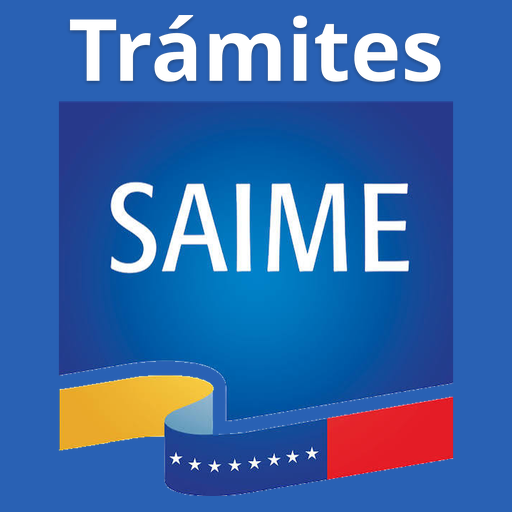
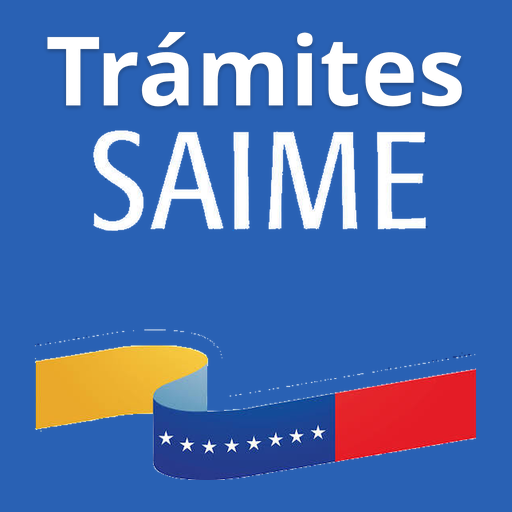
style: el icono ya no lleva la caja azul de atras
Sobre el azul de la pantalla de arranque la caja del logo se veia como un
recuadro oscuro. Ahora el icono queda solo con las letras SAIME y la cinta
tricolor flotando sobre el azul, sin recuadro.

- make-icon.py saca la caja rellenando desde arriba y los costados, antes de
  la cinta, para no comerse el azul de la bandera. Las letras y las estrellas
  quedan intactas (verificado: mismo numero de pixeles blancos, amarillos y
  rojos que el original).
- El filo entre las letras y la caja se recompone sobre el azul nuevo, para
  que no quede halo oscuro alrededor de cada letra.
- Cache del service worker a tramites-ve-v57 y ?v=57.

diff --git a/public/index.html b/public/index.html
@@ -7,8 +7,8 @@
   <meta name="description" content="Cédula, licencia y antecedentes penales en línea. Tus trámites, sin colas ni vueltas." />
   <title>Tramites Venezolanos en Linea | Sin colas ni vueltas</title>
   <link rel="manifest" href="manifest.json" />
-  <link rel="icon" href="favicon-32.png?v=56" sizes="32x32" />
-  <link rel="apple-touch-icon" href="apple-touch-icon.png?v=56" />
+  <link rel="icon" href="favicon-32.png?v=57" sizes="32x32" />
+  <link rel="apple-touch-icon" href="apple-touch-icon.png?v=57" />
   <link rel="stylesheet" href="styles.css" />
 </head>
 <body>
@@ -16,7 +16,7 @@
 <!-- ============================ ACCESO ============================ -->
 <section class="auth" id="authScreen">
   <div class="auth-card">
-    <img class="auth-logo" src="icon-192.png?v=56" srcset="icon-192.png?v=56 1x, icon-512.png?v=56 2x" alt="Trámites Venezolanos en Línea" />
+    <img class="auth-logo" src="icon-192.png?v=57" srcset="icon-192.png?v=57 1x, icon-512.png?v=57 2x" alt="Trámites Venezolanos en Línea" />
     <h1>Trámites Venezolanos en Línea</h1>
     <p class="muted tagline-sub">Cédula, licencia y antecedentes penales. Te acompañamos en todo el trámite.</p>
 
@@ -141,7 +141,7 @@
   <!-- Portada de servicios -->
   <section class="view active" id="homeView">
     <header class="topbar">
-      <img class="brand-logo" src="icon-192.png?v=56" srcset="icon-192.png?v=56 1x, icon-512.png?v=56 2x" alt="Trámites en Línea" />
+      <img class="brand-logo" src="icon-192.png?v=57" srcset="icon-192.png?v=57 1x, icon-512.png?v=57 2x" alt="Trámites en Línea" />
       <div class="brand-block">
         <div class="brand-line">
           <div class="brand">Trámites en Línea</div>
@@ -481,7 +481,7 @@
 
 <!-- Instalar la app -->
 <div class="install hidden" id="installBanner">
-  <img class="install-logo" src="icon-192.png?v=56" srcset="icon-192.png?v=56 1x, icon-512.png?v=56 2x" alt="" />
+  <img class="install-logo" src="icon-192.png?v=57" srcset="icon-192.png?v=57 1x, icon-512.png?v=57 2x" alt="" />
   <div class="install-txt">
     <div class="install-title">Instala la app</div>
     <div class="install-sub">Queda en tu celular, como una app</div>

diff --git a/public/sw.js b/public/sw.js
@@ -1,5 +1,5 @@
 /* Conecta Chat - service worker (instalable + lo mas reciente primero) */
-const CACHE = 'tramites-ve-v56';
+const CACHE = 'tramites-ve-v57';
 const ASSETS = ['./', './index.html', './styles.css', './app.js', './fileviewer.js', './manifest.json', './bg.jpg', './logos/saime.png', './logos/saime-email.png', './galeria/01-identidad-un-clic.jpg', './galeria/02-servicios-saime.jpg', './galeria/03-pasos-tramite.jpg', './logos/intt.png', './logos/justicia.png', './icon-192.png'];
 
 self.addEventListener('install', (e) => {

diff --git a/scripts/make-icon.py b/scripts/make-icon.py
@@ -7,20 +7,24 @@ Por que existe este script
 --------------------------
 El icono sale de una sola imagen de origen, scripts/icono-saime-fuente.jpg: el
 logo SAIME (la caja azul con las letras y la cinta tricolor con las estrellas).
-Esa imagen viene con un fondo blanco en la parte de abajo, el triangulo que se
-ve a los lados de la cinta. El script quita SOLO ese blanco:
+Esa imagen trae dos fondos que no van en el icono:
 
-  1. marca los pixeles casi blancos,
-  2. rellena desde el borde de la imagen (asi solo cae el blanco de afuera y no
-     las letras ni las estrellas, que quedan encerradas por el azul),
-  3. come un par de pixeles del filo para que no quede una linea blanca.
+  1. El blanco de abajo, el triangulo que se ve a los lados de la cinta.
+  2. La caja azul de atras, que sobre el azul de la app se veia como un
+     recuadro oscuro. El icono tiene que quedar solo con las letras SAIME y
+     la cinta, flotando sobre el azul.
 
-Despues arma el bloque "Tramites" + logo y lo pone al medio del cuadro azul.
-El azul es el de la guia, #2961B4, el mismo que va en manifest.json.
+Los dos se sacan igual: se marca la zona por color y se rellena desde un borde
+conocido. Asi solo cae el fondo y quedan intactas las letras y las estrellas,
+que estan encerradas por otros colores.
 
-Los iconos "maskable" son los que Android recorta con su propia forma (circulo,
-gota, cuadrado redondeado). Por eso el bloque se dibuja mas chico: todo lo
-importante tiene que caber en el 80% central o Android lo corta.
+  - El blanco se rellena desde el borde de la imagen.
+  - La caja azul se rellena desde arriba y desde los costados, antes de que
+    empiece la cinta: el azul de la cinta no se toca porque queda aislado por
+    las franjas amarilla y roja.
+
+El filo que queda entre las letras y la caja se recompone sobre el azul nuevo,
+si no quedaria un halo oscuro alrededor de cada letra.
 
 Uso:  python3 scripts/make-icon.py
 Salida: public/icon-1024.png, icon-512.png, icon-192.png,
@@ -31,7 +35,7 @@ import os
 import sys
 from collections import deque
 
-from PIL import Image, ImageDraw, ImageFont, ImageFilter
+from PIL import Image, ImageDraw, ImageFilter, ImageFont
 
 AQUI = os.path.dirname(os.path.abspath(__file__))
 PUBLIC = os.path.join(AQUI, '..', 'public')
@@ -39,78 +43,114 @@ FUENTE = os.path.join(AQUI, 'icono-saime-fuente.jpg')
 LETRA = '/usr/share/fonts/truetype/noto/NotoSans-Bold.ttf'
 
 AZUL = (41, 97, 180)      # #2961B4, el azul de la guia
-TEXTO = 'Tramites'        # se dibuja con acento mas abajo
 TEXTO = 'Tr\u00e1mites'
 
 BLANCO_MIN = 215          # desde que tono se considera blanco de fondo
 LOGO_ANCHO = 2200         # ancho del logo dentro del bloque maestro
 MARGEN_X = 100            # aire a los lados del bloque
-GAP = 110                 # separacion entre el texto y el logo
+GAP = 120                 # separacion entre el texto y el logo
 
 ESCALA_NORMAL = 0.94      # cuanto del cuadro ocupa el bloque
 ESCALA_SEGURA = 0.72      # version maskable
 
 
-def logo_sin_blanco():
-    """Devuelve el logo recortado con el fondo blanco de abajo hecho transparencia."""
-    if not os.path.exists(FUENTE):
-        sys.exit('Falta la imagen de origen: ' + FUENTE)
-    im = Image.open(FUENTE).convert('RGB')
-    px = im.load()
-    w, h = im.size
-
-    def blanco(x, y):
-        r, g, b = px[x, y]
-        return r >= BLANCO_MIN and g >= BLANCO_MIN and b >= BLANCO_MIN
-
-    # Relleno desde el borde: cae el blanco de afuera, no el de las letras.
-    fuera = [[False] * w for _ in range(h)]
+def rellenar(mascara, semillas):
+    """Devuelve los pixeles de la mascara alcanzables desde las semillas."""
+    alto = len(mascara)
+    ancho = len(mascara[0])
+    visto = [[False] * ancho for _ in range(alto)]
     cola = deque()
-
-    def sembrar(x, y):
-        if blanco(x, y) and not fuera[y][x]:
-            fuera[y][x] = True
+    for x, y in semillas:
+        if 0 <= x < ancho and 0 <= y < alto and mascara[y][x] and not visto[y][x]:
+            visto[y][x] = True
             cola.append((x, y))
-
-    for x in range(w):
-        sembrar(x, 0)
-        sembrar(x, h - 1)
-    for y in range(h):
-        sembrar(0, y)
-        sembrar(w - 1, y)
-
     while cola:
         x, y = cola.popleft()
         for dx, dy in ((1, 0), (-1, 0), (0, 1), (0, -1)):
             nx, ny = x + dx, y + dy
-            if 0 <= nx < w and 0 <= ny < h and not fuera[ny][nx] and blanco(nx, ny):
-                fuera[ny][nx] = True
+            if 0 <= nx < ancho and 0 <= ny < alto and mascara[ny][nx] and not visto[ny][nx]:
+                visto[ny][nx] = True
                 cola.append((nx, ny))
+    return visto
 
-    # Un par de pasadas comiendo el filo claro que deja el JPEG.
-    for _ in range(2):
-        matar = []
-        for y in range(h):
-            for x in range(w):
-                if fuera[y][x]:
-                    continue
-                r, g, b = px[x, y]
-                if min(r, g, b) < 185:
-                    continue
-                vecino = ((x > 0 and fuera[y][x - 1]) or (x < w - 1 and fuera[y][x + 1]) or
-                          (y > 0 and fuera[y - 1][x]) or (y < h - 1 and fuera[y + 1][x]))
-                if vecino:
-                    matar.append((x, y))
-        for x, y in matar:
-            fuera[y][x] = True
+
+def logo_limpio():
+    """Saca el blanco de afuera y la caja azul: deja letras y cinta."""
+    if not os.path.exists(FUENTE):
+        sys.exit('Falta la imagen de origen: ' + FUENTE)
+    im = Image.open(FUENTE).convert('RGB')
+    px = im.load()
+    ancho, alto = im.size
+
+    def es_blanco(x, y):
+        r, g, b = px[x, y]
+        return r >= BLANCO_MIN and g >= BLANCO_MIN and b >= BLANCO_MIN
+
+    def es_caja(x, y):
+        r, g, b = px[x, y]
+        return b > r + 12 and b > g + 6 and 110 < b < 235
+
+    # 1) el blanco de afuera, rellenando desde todo el borde
+    blanco = [[es_blanco(x, y) for x in range(ancho)] for y in range(alto)]
+    semillas = []
+    for x in range(ancho):
+        semillas += [(x, 0), (x, alto - 1)]
+    for y in range(alto):
+        semillas += [(0, y), (ancho - 1, y)]
+    fuera = rellenar(blanco, semillas)
+
+    # 2) la caja azul, rellenando desde arriba y los costados (por encima de la
+    #    cinta) para no comerse el azul de la bandera
+    caja = [[es_caja(x, y) for x in range(ancho)] for y in range(alto)]
+    semillas = []
+    for x in range(ancho):
+        semillas += [(x, y) for y in range(0, int(alto * 0.55), 3)]
+    for y in range(0, int(alto * 0.55), 3):
+        semillas += [(0, y), (ancho - 1, y)]
+    dentro = rellenar(caja, semillas)
+
+    # 3) el filo claro entre las letras y la caja: se recompone sobre el azul
+    #    nuevo para que no quede un halo oscuro alrededor de cada letra
+    zona = Image.new('L', (ancho, alto), 0)
+    zpx = zona.load()
+    for y in range(alto):
+        for x in range(ancho):
+            if dentro[y][x]:
+                zpx[x, y] = 255
+    borde = zona.filter(ImageFilter.MaxFilter(5)).load()
+
+    def fondo_caja(x, y):
+        """Color de la caja alrededor de (x, y), promediando la zona rellenada."""
+        sr = sg = sb = n = 0
+        for yy in range(max(0, y - 12), min(alto, y + 13)):
+            for xx in range(max(0, x - 12), min(ancho, x + 13)):
+                if dentro[yy][xx]:
+                    r, g, b = px[xx, yy]
+                    sr += r; sg += g; sb += b; n += 1
+        if not n:
+            return None
+        return sr / n, sg / n, sb / n
 
     salida = im.convert('RGBA')
-    datos = salida.load()
-    for y in range(h):
-        for x in range(w):
-            if fuera[y][x]:
-                datos[x, y] = (0, 0, 0, 0)
-    return salida.crop(salida.getchannel('A').getbbox() or (0, 0, w, h))
+    dp = salida.load()
+    for y in range(alto):
+        for x in range(ancho):
+            if fuera[y][x] or dentro[y][x]:
+                dp[x, y] = (0, 0, 0, 0)
+                continue
+            if borde[x, y] and min(px[x, y]) >= 110:
+                viejo = fondo_caja(x, y)
+                if viejo:
+                    r, g, b = px[x, y]
+                    # cuanto de la letra hay en este pixel, canal por canal
+                    alfa = [min(1.0, max(0.0, (c - v) / (255.0 - v)))
+                            for c, v in zip((r, g, b), viejo)]
+                    a = sum(alfa) / 3.0
+                    dp[x, y] = (int(255 * a + (1 - a) * AZUL[0]),
+                                int(255 * a + (1 - a) * AZUL[1]),
+                                int(255 * a + (1 - a) * AZUL[2]), 255)
+
+    return salida.crop(salida.getchannel('A').getbbox() or (0, 0, ancho, alto))
 
 
 def bloque_maestro(logo):
@@ -169,7 +209,7 @@ def icono(bloque, size, escala):
 
 
 def main():
-    logo = logo_sin_blanco()
+    logo = logo_limpio()
     bloque = bloque_maestro(logo)
 
     salidas = {
